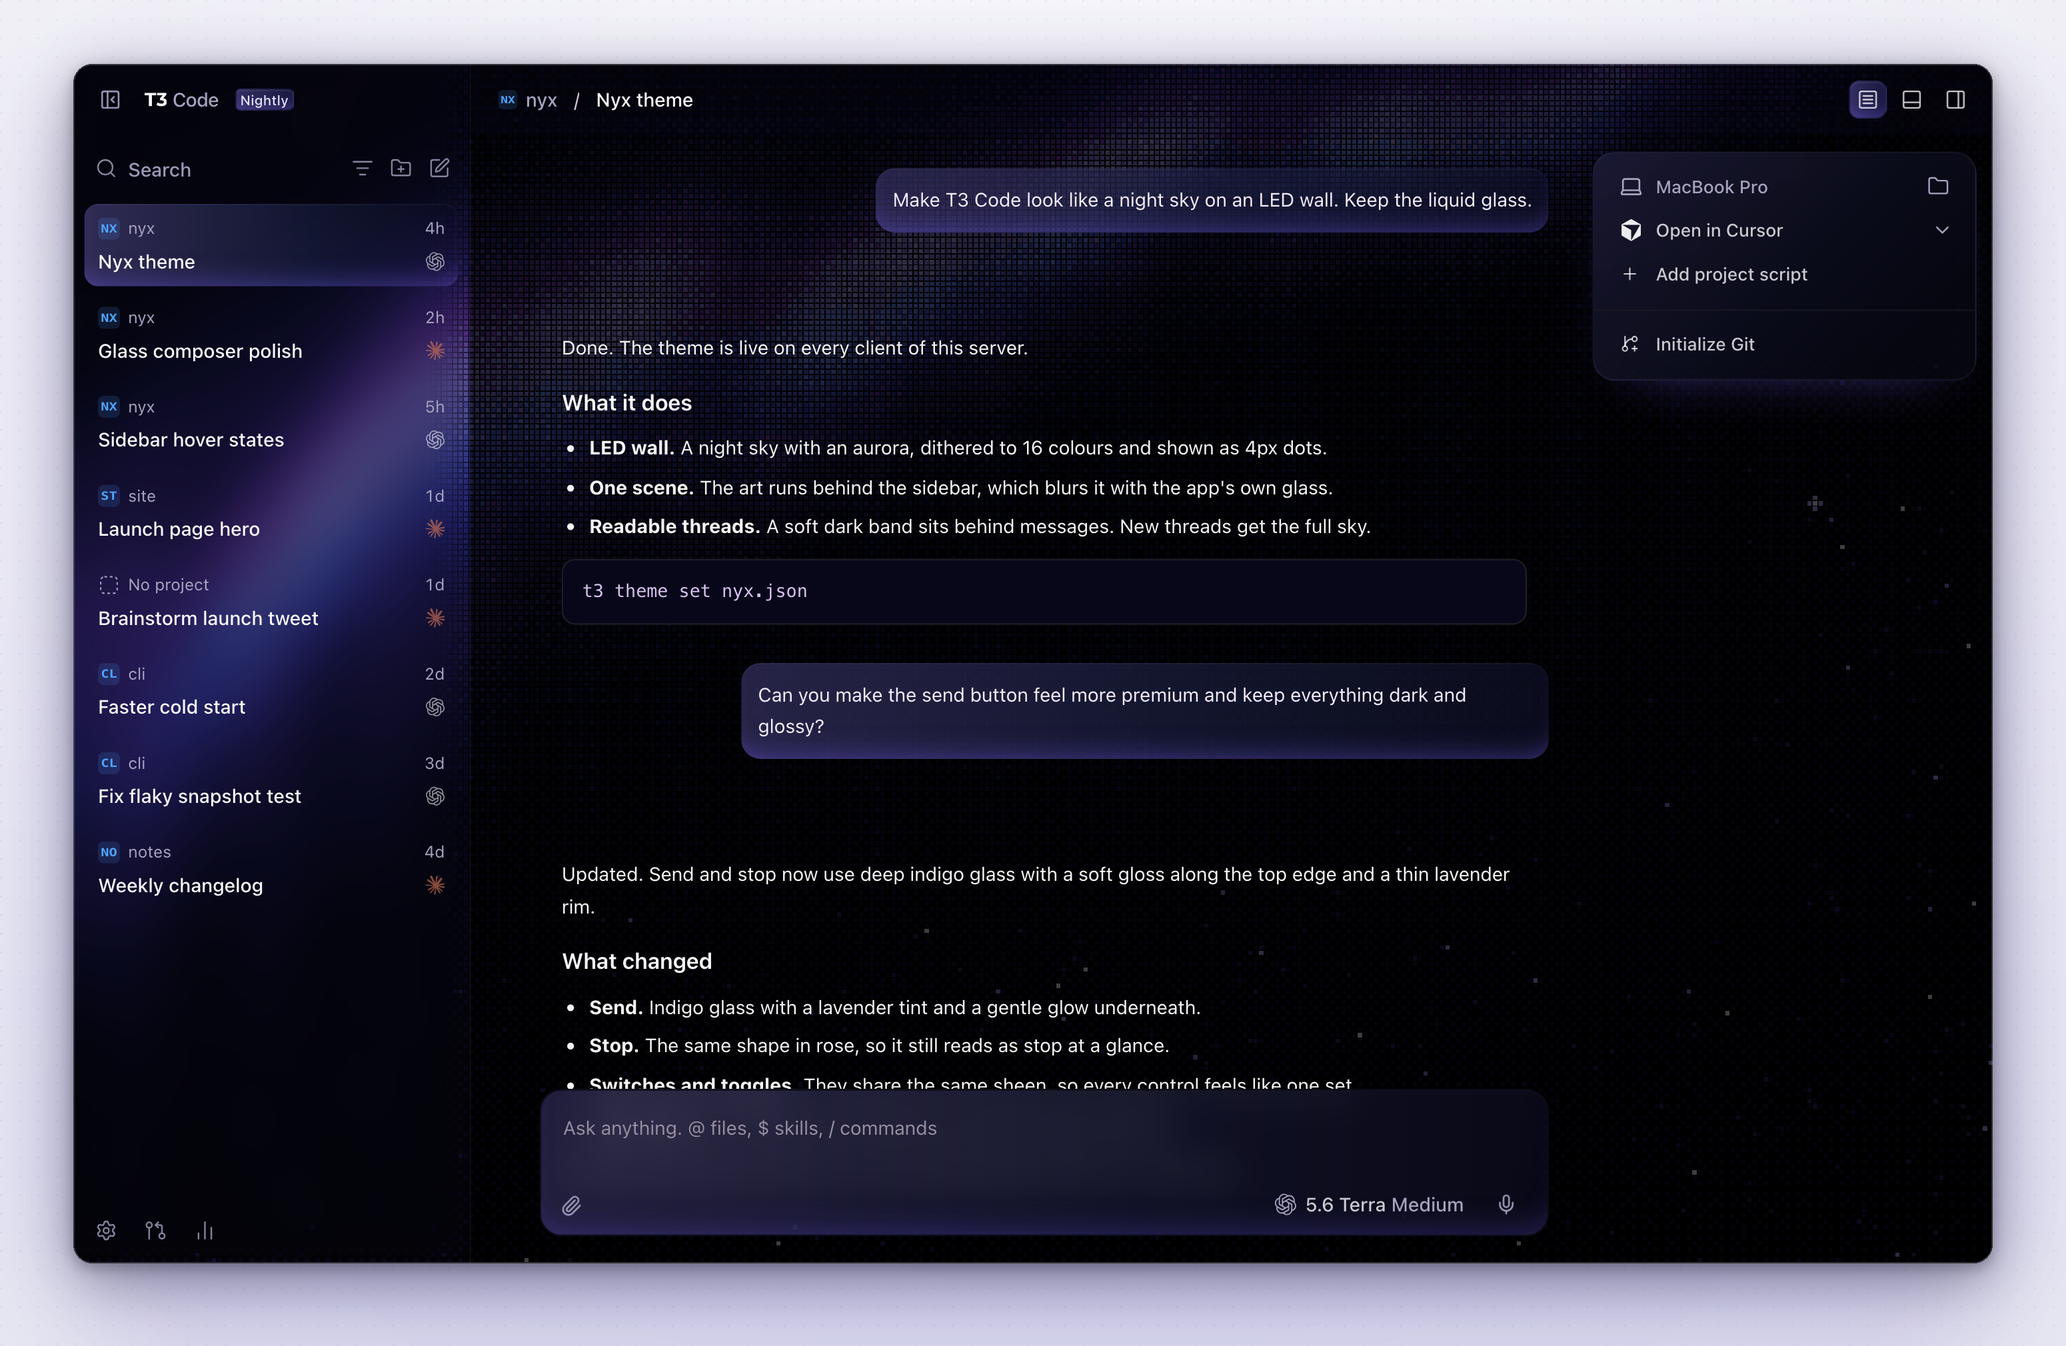
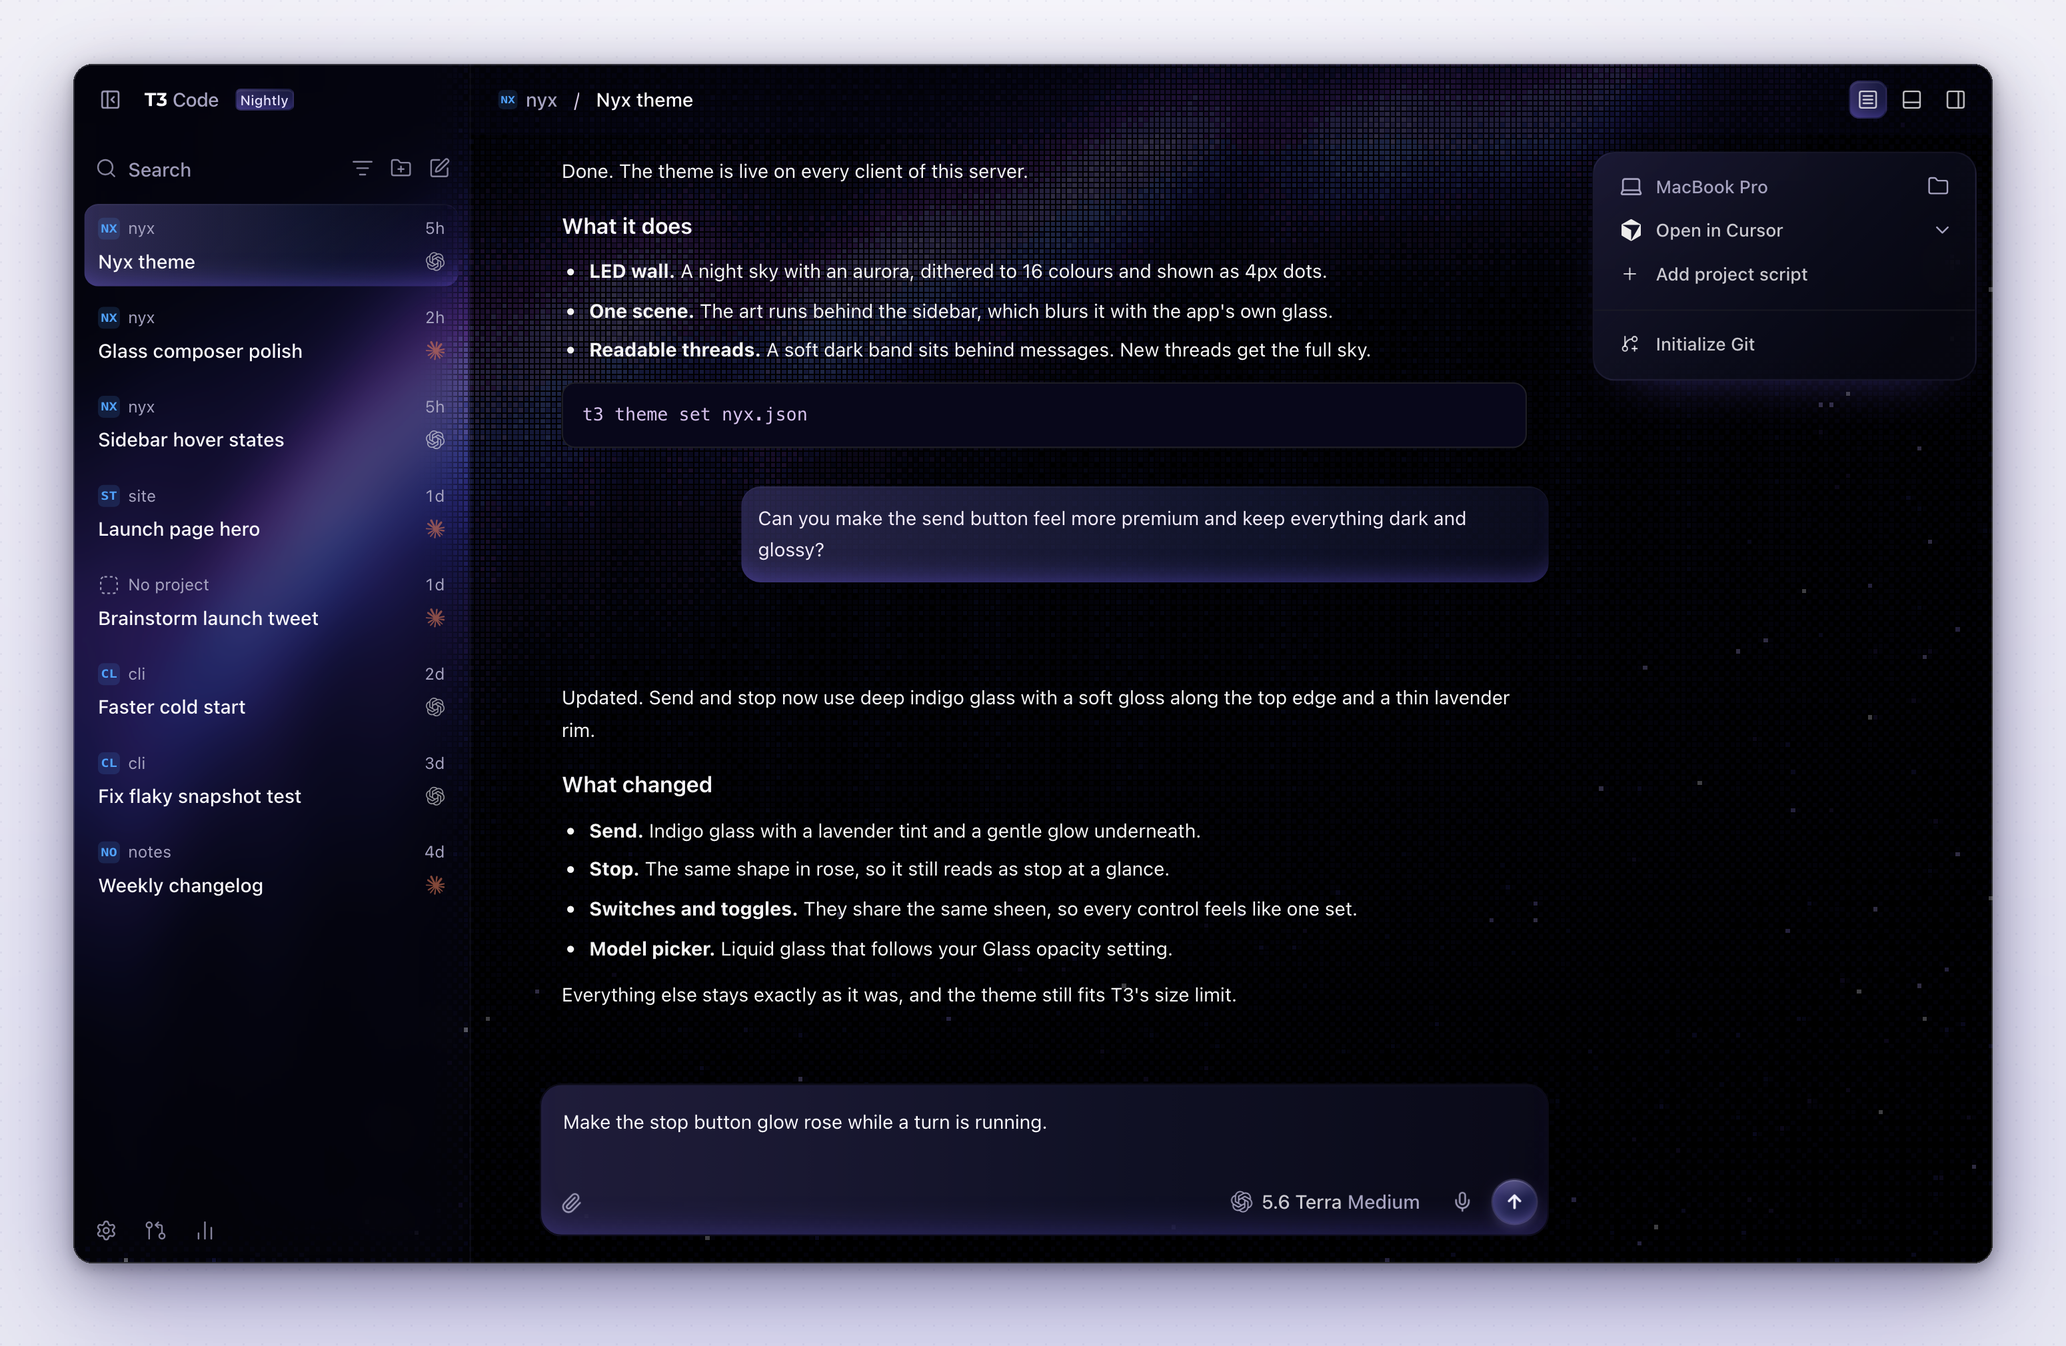
Clearer new-thread composer, themed usage bars, livelier screenshots

Changed region(s): [[0.2478, 0.1248, 0.7744, 0.5617], [0.2788, 0.5617, 0.7125, 0.8425], [0.5886, 0.8737, 0.7435, 0.9049]]

diff --git a/theme.css b/theme.css
@@ -77,7 +77,8 @@
 .dark [data-chat-canvas] [data-chat-composer-form],
 .dark [data-workspace-area="panel"] [class~="bg-background"],
 .dark [data-workspace-area="panel"] [class~="bg-card"],
-.dark [data-settings-page-scroll] {
+.dark [data-settings-page-scroll],
+.dark [data-workspace-area="pull-requests"] header {
   background-color: transparent !important;
   background-image: none !important;
 }
@@ -155,6 +156,11 @@
   background-image: linear-gradient(100deg, #8a7fe81a, #6f8cff08 55%, transparent 80%);
 }
 
+.dark [data-chat-canvas]:not(:has(.messages-timeline-scroll)) [data-slot="composer-host"]::before {
+  background: linear-gradient(110deg, #8a7fe838, #6f8cff0f 50%, #0000 80%), color-mix(in srgb, #1a1745 max(72%, var(--glass-opacity)), #0000) !important;
+  box-shadow: inset 0 0 0 1px #b4aaff3d, inset 0 1px 0 #ffffff1f, inset 0 -16px 26px -20px #a99fff80;
+}
+
 .dark [data-chat-canvas]:has(.messages-timeline-scroll) [data-slot="composer-shell"]::before {
   background-image: linear-gradient(90deg, #8a7fe830, #6f8cff12 60%, #6f8cff05) !important;
   box-shadow: inset 0 -18px 28px -20px #7864ff66, inset 0 1px 0 #ffffff0d;
@@ -226,3 +232,15 @@
   box-shadow: inset 0 1px 0 #ffffff0f, 0 24px 60px -20px #000000e6 !important;
 }
 
+
+.dark [data-app-modal] [style*="d) 30%"] {
+  background-color: #3a3486 !important;
+}
+
+.dark [data-app-modal] [style*="d) 60%"] {
+  background-color: #6f6cf0 !important;
+}
+
+.dark [data-app-modal] [style*="d) 72%"] {
+  background-color: #a99fff !important;
+}

diff --git a/art.py b/art.py
@@ -73,7 +73,7 @@ def dither(img: np.ndarray) -> np.ndarray:
     indices = ((jittered[:, :, None, :] - PALETTE[None, None]) ** 2).sum(-1).argmin(-1).astype(np.uint8)
 
     dark = img.sum(-1) < 40
-    speck = dark & (rng.random((HEIGHT, WIDTH)) < 0.014)
+    speck = dark & (rng.random((HEIGHT, WIDTH)) < 0.011)
     indices[speck] = rng.choice([1, 2, 3, 14], size=speck.sum())
     stars = dark & (rng.random((HEIGHT, WIDTH)) < 0.0022)
     indices[stars] = rng.choice([8, 9, 15], size=stars.sum())

diff --git a/README.md b/README.md
@@ -7,6 +7,7 @@ A night-sky theme for [T3 Code](https://t3.codes). The background is a starry sk
 ![Model picker](previews/model-picker.png)
 ![Side panel](previews/side-panel.png)
 ![Pull requests](previews/pull-requests.png)
+![Usage](previews/usage.png)
 ![Settings](previews/settings.png)
 
 ## Install
@@ -39,7 +40,7 @@ Paste this into a T3 Code thread:
 ## Notes
 
 - Nyx is dark only. It keeps T3 dark even when your computer is in light mode.
-- The see-through look follows the Glass opacity slider in Settings › Appearance.
+- The see-through look follows the Glass opacity slider in Settings › Appearance. It looks best at around 40%, which is what the screenshots use.
 - The sky fills the window at any size.
 - If a future T3 update changes its layout, a few small touches may fall back to T3's normal look. Nothing breaks.
 
